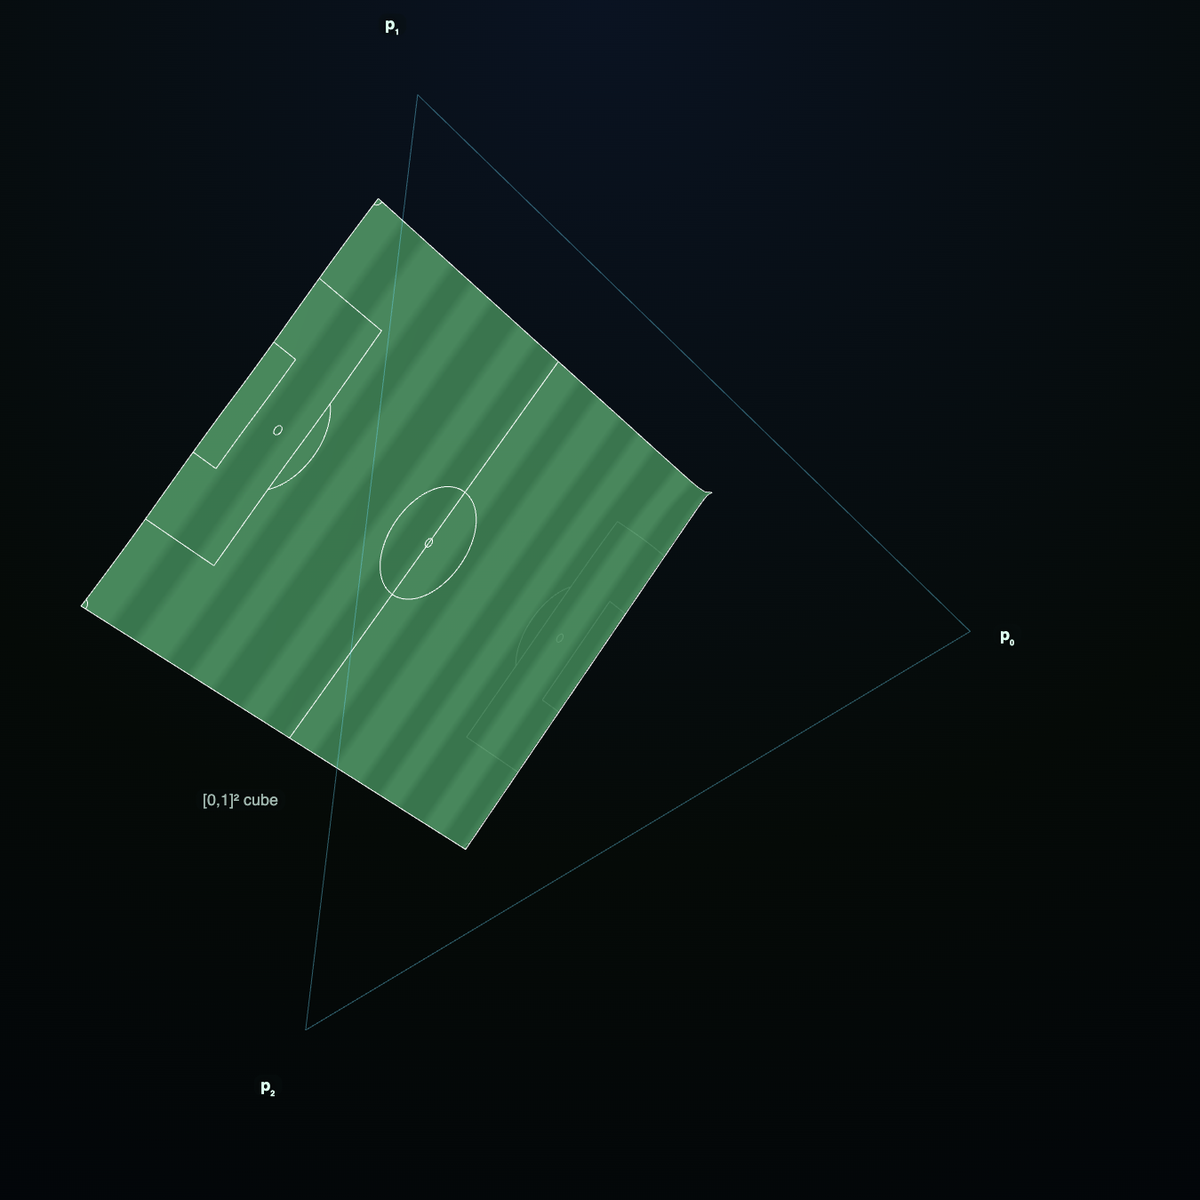
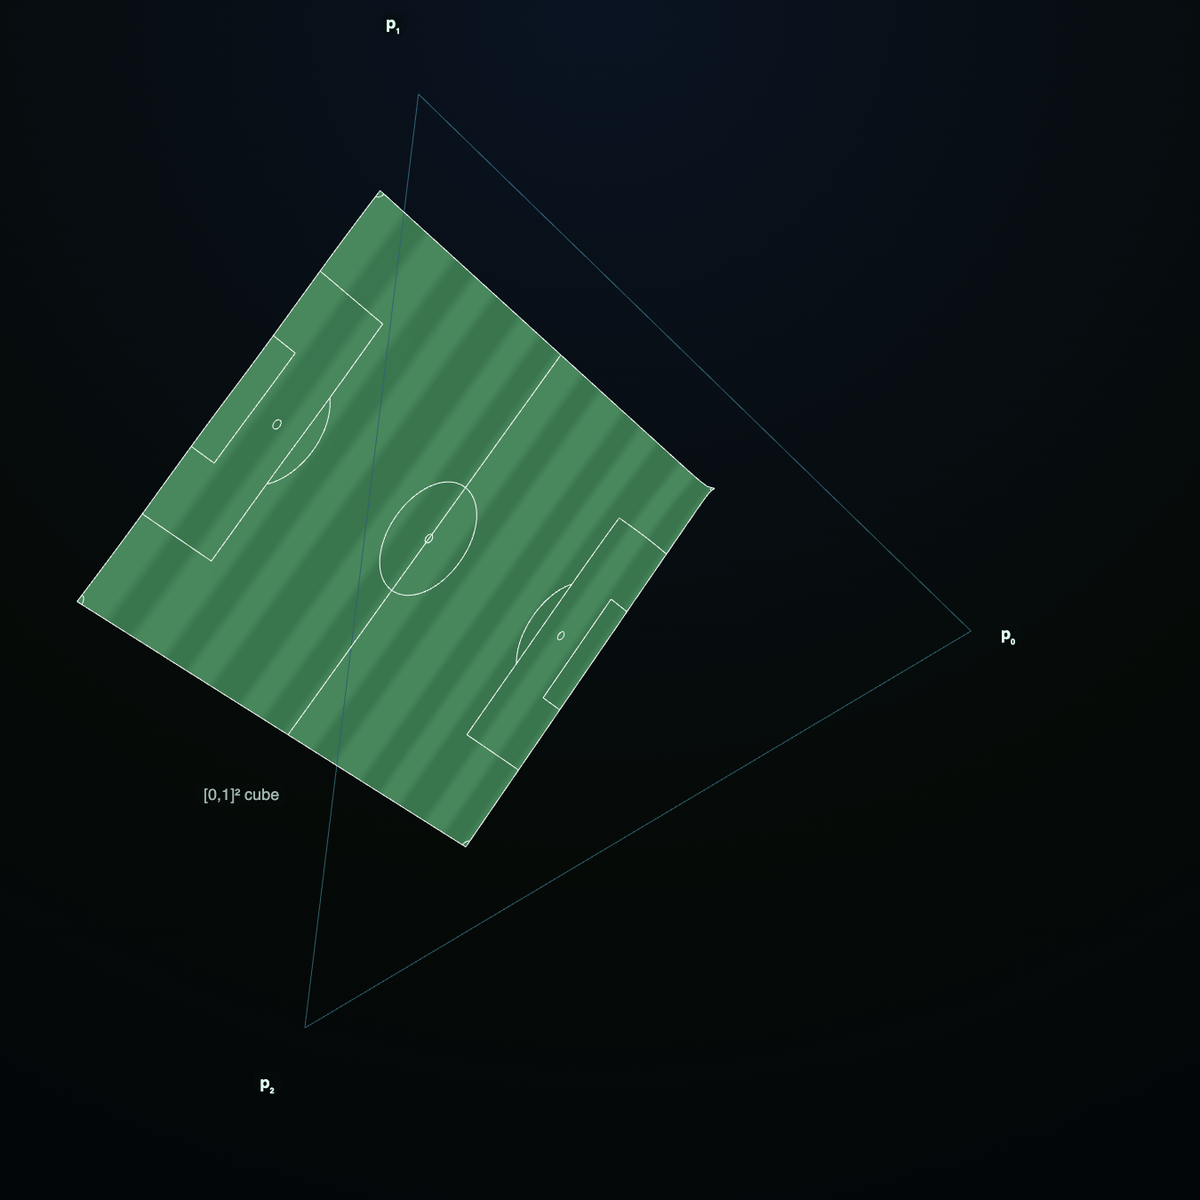
docs: genuinely two-sided pitch markings + slower loop
depthTest:false alone didn't make markings visible from below — Three.js sorts
transparent objects back-to-front, so a turned-away face's markings got painted
over by the grass. Fix: give the markings a high renderOrder so they always draw
last and show on BOTH sides of the field as it unrolls. Also slow the tempo
further (0.045 phase rate; 150-frame ~10s loop).

diff --git a/docs/grid-to-pitch-simplex.html b/docs/grid-to-pitch-simplex.html
@@ -170,9 +170,12 @@ const gI=[];for(let j=0;j<GY;j++)for(let i=0;i<GX;i++){const a=j*(GX+1)+i,b=a+1,
 grassGeom.setIndex(gI); grassGeom.setAttribute('color',new THREE.BufferAttribute(grassCol,3));
 addPitch(grassU,grassGeom,0.0);
 const grassMat=new THREE.MeshBasicMaterial({vertexColors:true,transparent:true,opacity:0.0,side:THREE.DoubleSide,depthWrite:false});
-scene.add(new THREE.Mesh(grassGeom,grassMat));
+const grassMesh=new THREE.Mesh(grassGeom,grassMat); grassMesh.renderOrder=1; scene.add(grassMesh);
+// Markings: depthTest off AND a high renderOrder so they are always painted last
+// — visible from BOTH sides of the field (top and underside) as it unrolls,
+// instead of being sorted behind the grass when a face turns away.
 const markMat=new THREE.LineBasicMaterial({color:0xffffff,transparent:true,opacity:0.0,fog:false,depthWrite:false,depthTest:false});
-for(const poly of marks){const uPts=poly.map(([X,Y])=>m2u(X,Y));const geom=new THREE.BufferGeometry();addPitch(uPts,geom,0.006);scene.add(new THREE.Line(geom,markMat));}
+for(const poly of marks){const uPts=poly.map(([X,Y])=>m2u(X,Y));const geom=new THREE.BufferGeometry();addPitch(uPts,geom,0.0);const line=new THREE.Line(geom,markMat);line.renderOrder=2;scene.add(line);}
 function pitchSimUpdate(){for(const d of pitchObjs){for(let i=0;i<d.n;i++){const p=phi(d.uu[i*2],d.uu[i*2+1],s,gamma);const sp=simplexPos(p).addScaledVector(normal,d.lift);d.sim[i*3]=sp.x;d.sim[i*3+1]=sp.y;d.sim[i*3+2]=sp.z;}}}
 
 // simplex outline + labels
@@ -230,7 +233,7 @@ const clock=new THREE.Clock(); refresh(); simUpdate(); applyMorph(0); applyFade(
 function animate(){
   requestAnimationFrame(animate);
   const dt=clock.getDelta();
-  let m,w; if(auto){phase+=dt*0.06; const tau=phase-Math.floor(phase); [m,w]=timeline(tau);} else {m=manM;w=manW;}
+  let m,w; if(auto){phase+=dt*0.045; const tau=phase-Math.floor(phase); [m,w]=timeline(tau);} else {m=manM;w=manW;}
   applyMorph(ease(m)); applyFade(w); controls.update();
   renderer.render(scene,camera); labelRenderer.render(scene,camera);
 }